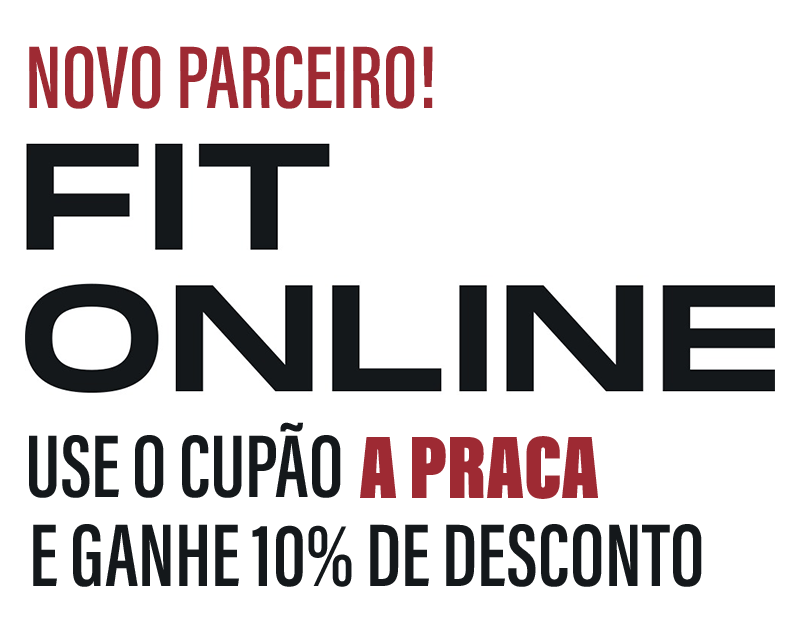
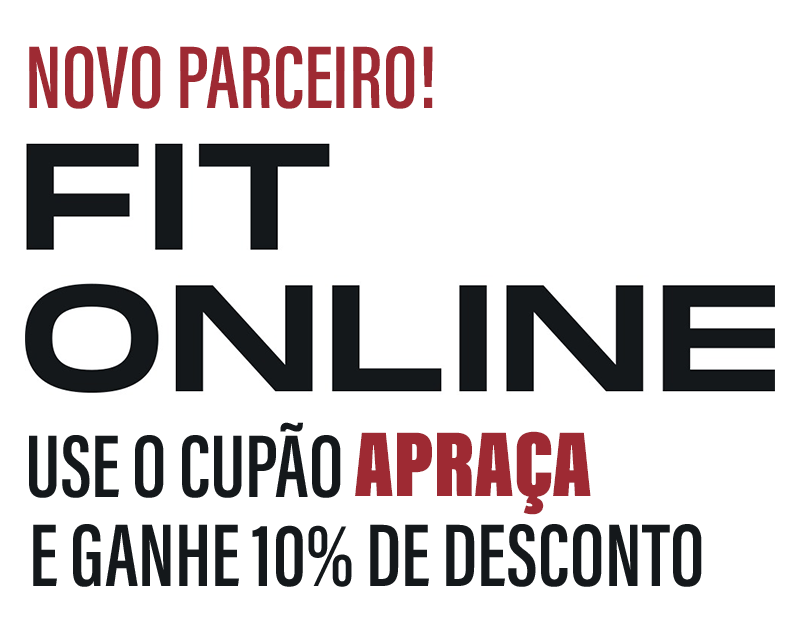
feat: changed sponsor modal image

Changed region(s): [[0.4375, 0.6562, 0.75, 0.8125]]

diff --git a/src/components/SponsorModal/index.jsx b/src/components/SponsorModal/index.jsx
@@ -16,7 +16,7 @@ export const SponsorModal = ({ setSponsorModal, setSponsorShow }) => {
         <a
           className="sponsorModalImage"
           href="https://www.fitonline.pt/collections/promocoes"
-          style={{ backgroundImage: `url(https://i.imgur.com/oAcN0Ys.png)` }}
+          style={{ backgroundImage: `url(https://i.imgur.com/6sP8ewG.png)` }}
         ></a>
       </div>
     </div>
